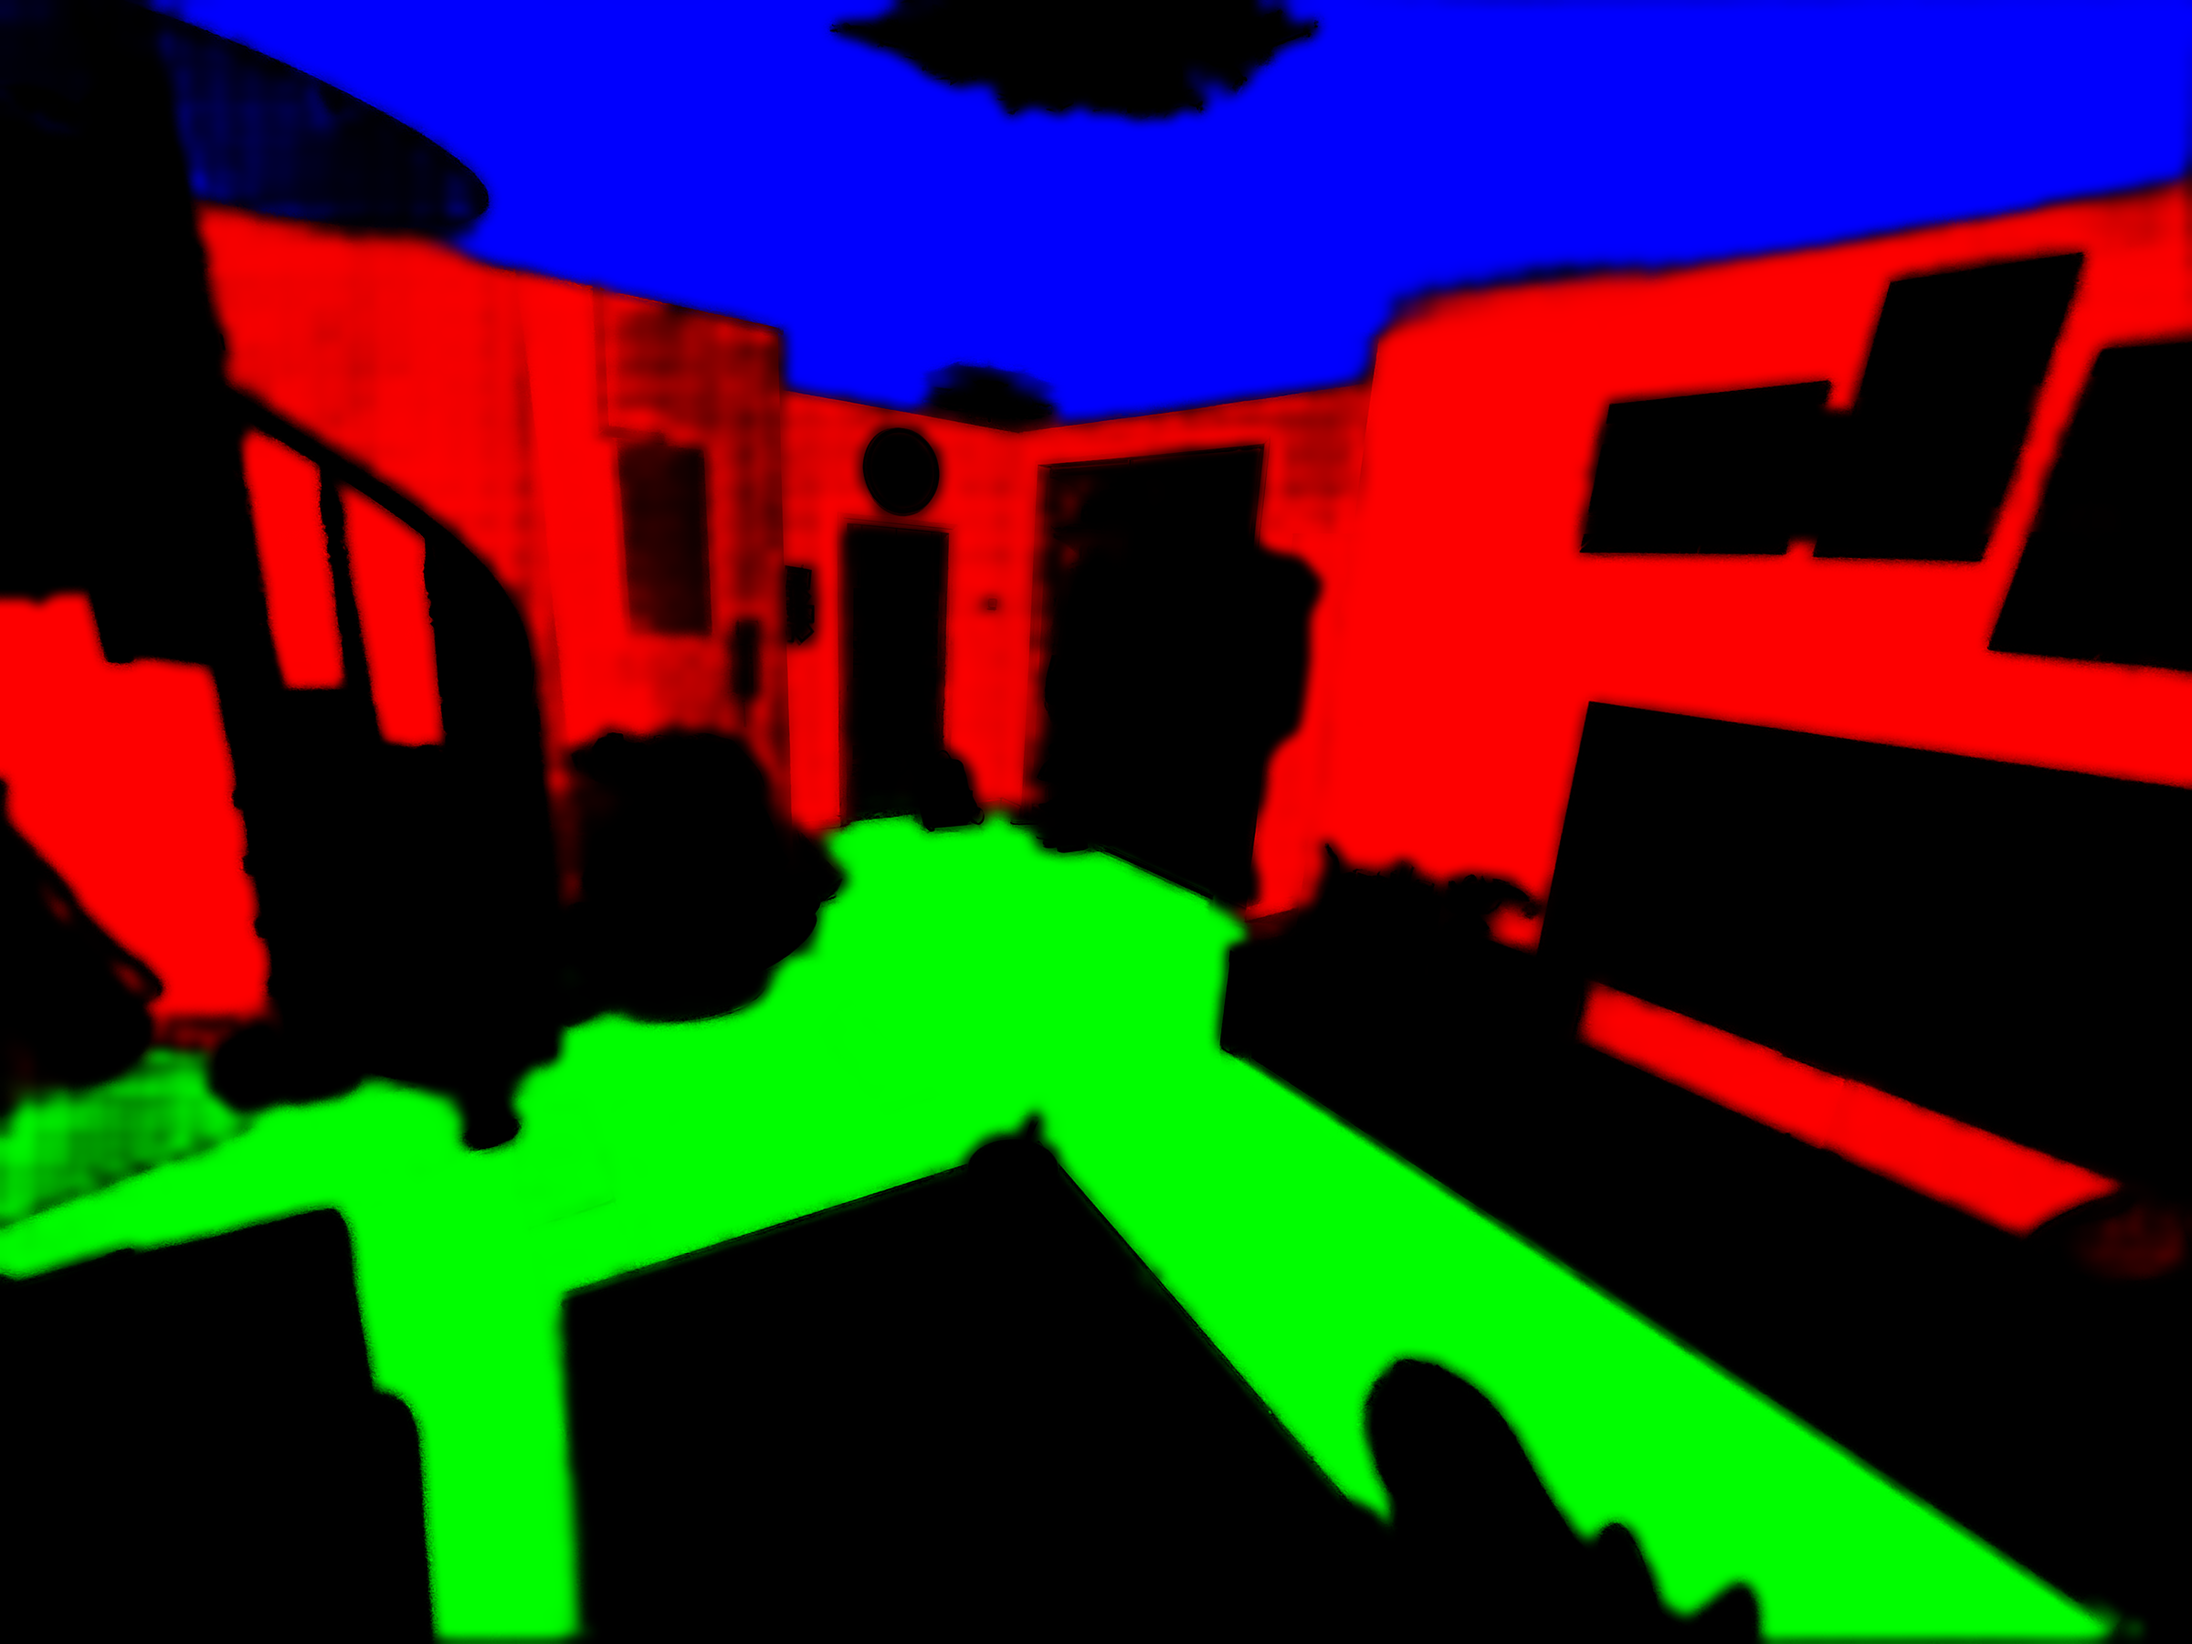
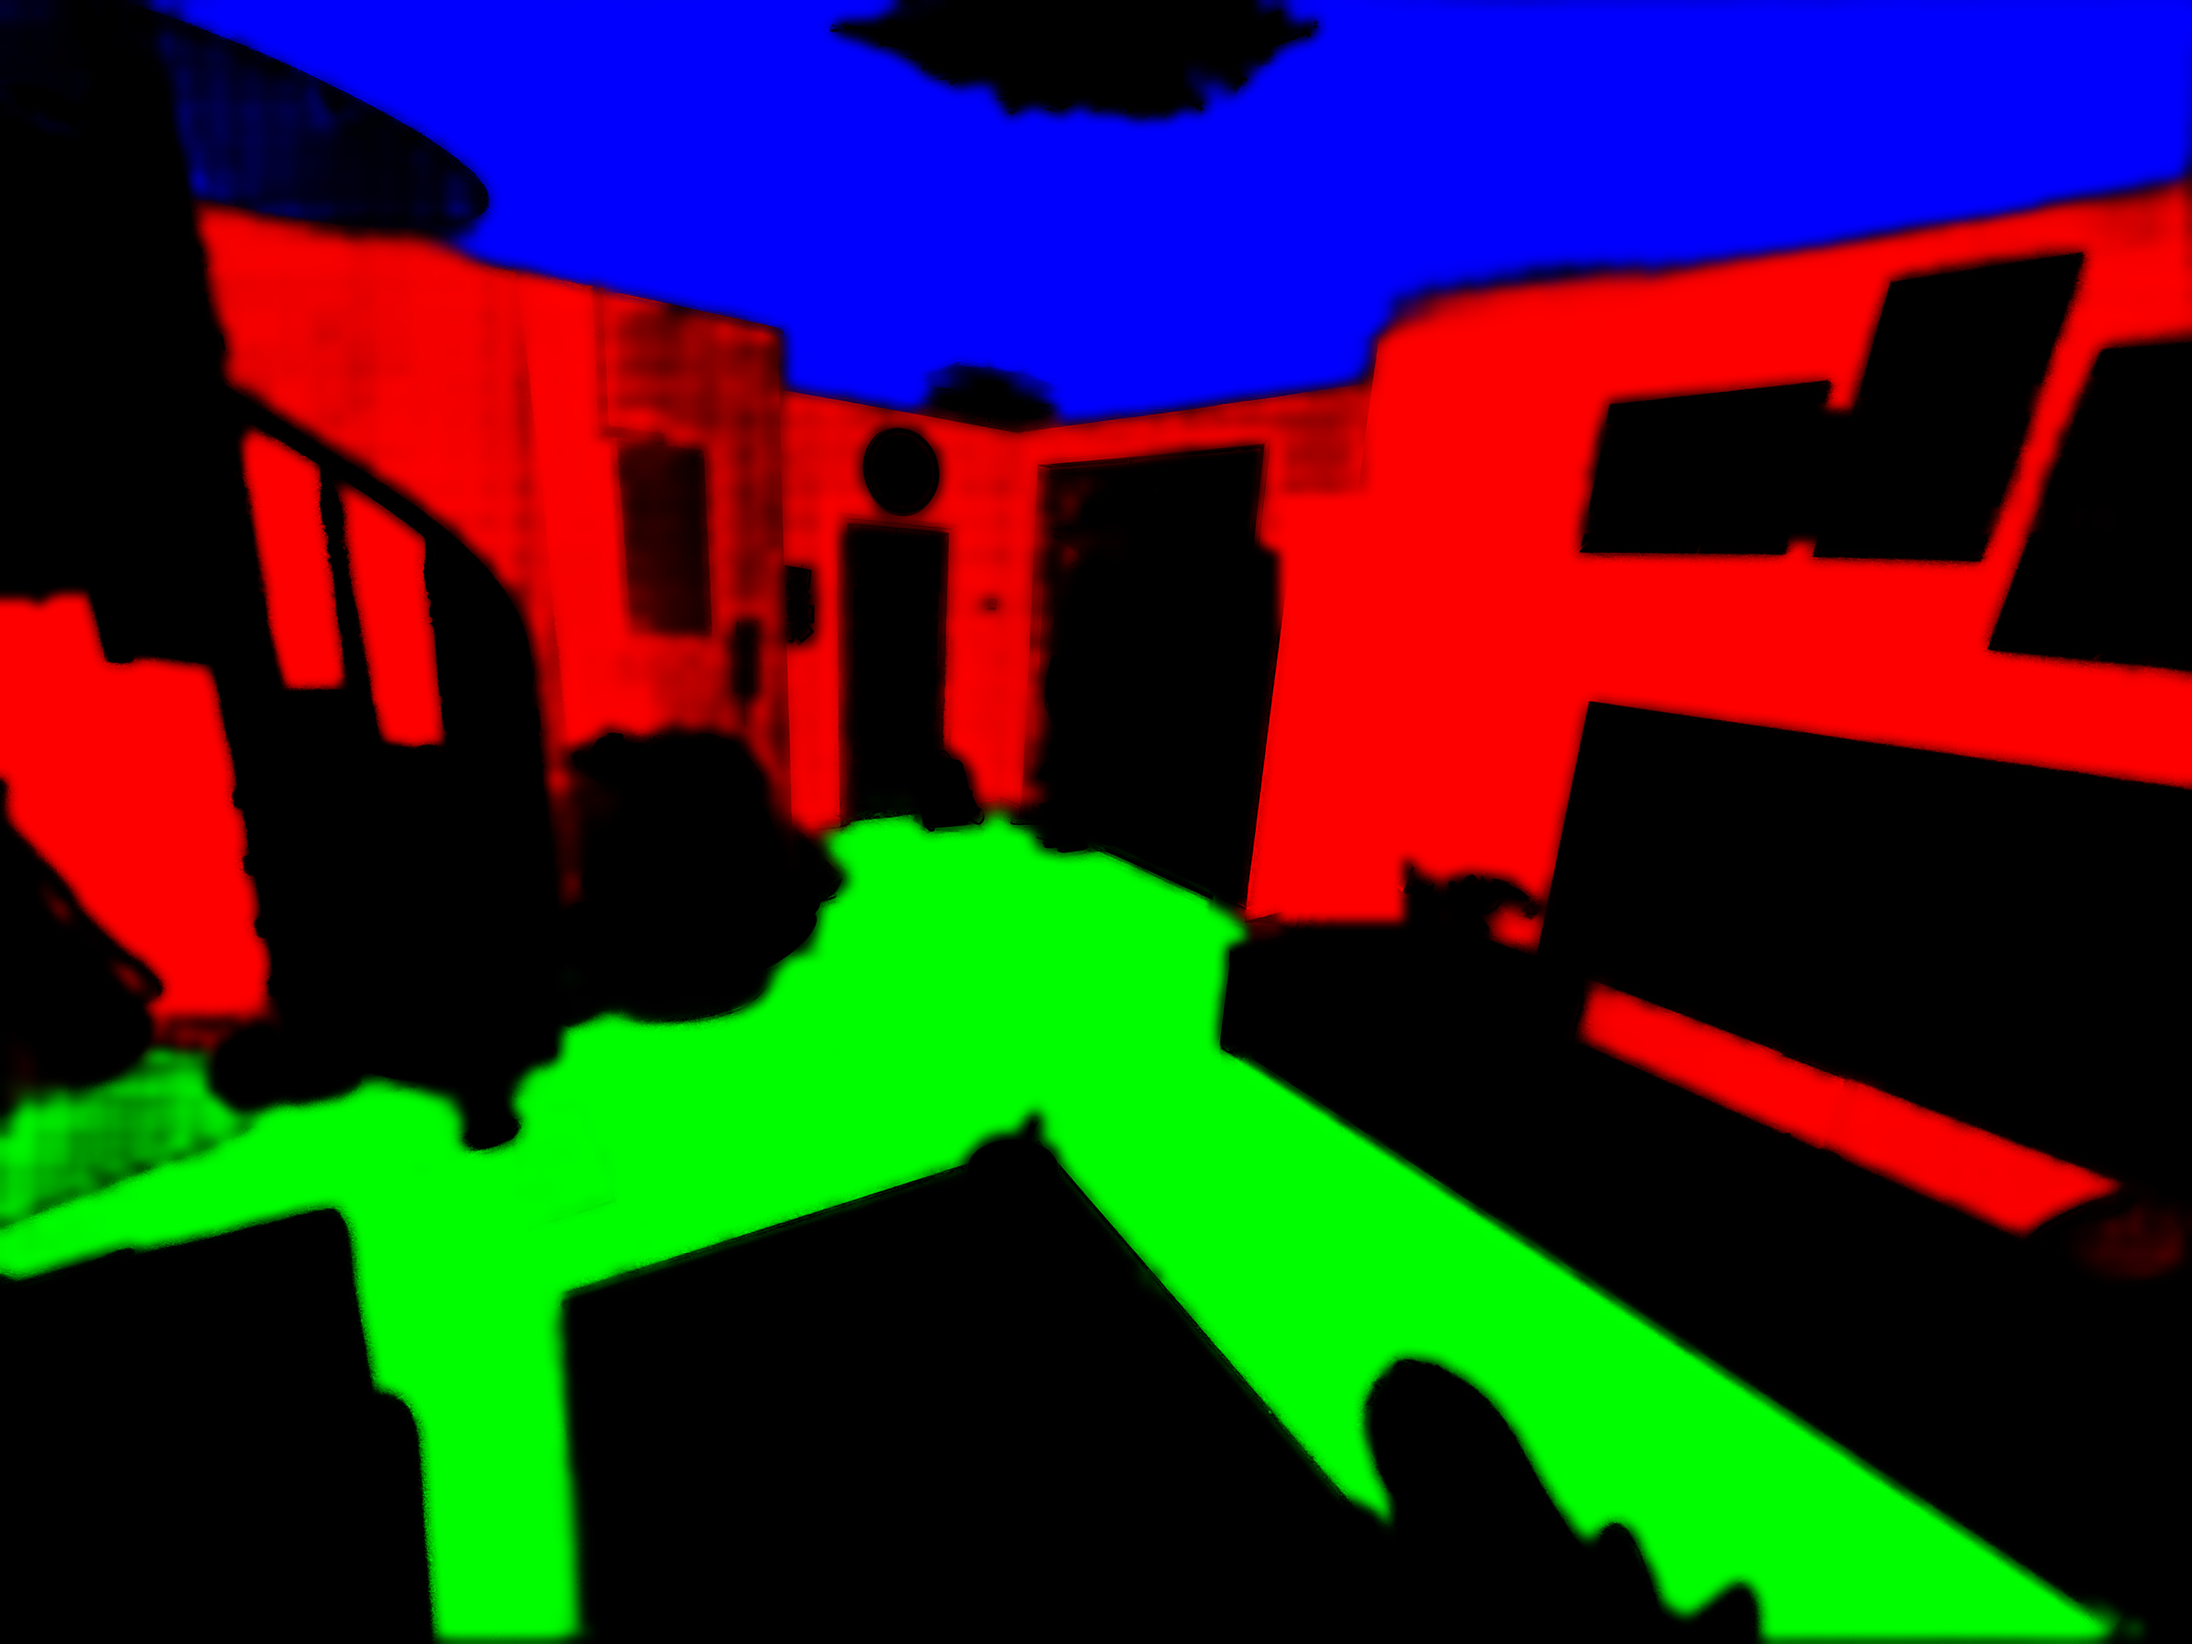
Wall shading preservation, tone shoulder, p87 wall mask fixes

Changed region(s): [[0.5625, 0.28, 0.6562, 0.5911]]

diff --git a/index.html b/index.html
@@ -71,7 +71,7 @@ void main(){vec3 o=lin(texture2D(ph,v).rgb);float L=lum(o);
   } else if(on[i]>.5){vec3 nc=(i==3)?lin(col[i])*pow(min(Ls/mean[i],4.),.8)*pow(det,.55):lin(col[i])*min(L/mean[i],3.);c=mix(c,nc,w[i]);} }
  if(on[7]>.5)c=mix(c,lin(col[7])*min(L/mean[0],3.),wa);
  c*=lt;if(dark>0.){float d=distance(v,vec2(.5,.25));c*=mix(1.,.35+.9*exp(-d*d*6.),dark);}
- gl_FragColor=vec4(srgb(c),1);}`;
+ float lc=lum(c);if(lc>.75){float t=.75+.25*(1.-exp(-(lc-.75)/.25));c*=t/lc;}gl_FragColor=vec4(srgb(c),1);}`;
 function sh(t,s){const o=gl.createShader(t);gl.shaderSource(o,s);gl.compileShader(o);if(!gl.getShaderParameter(o,gl.COMPILE_STATUS))console.error(gl.getShaderInfoLog(o));return o}
 const pr=gl.createProgram();gl.attachShader(pr,sh(gl.VERTEX_SHADER,VS));gl.attachShader(pr,sh(gl.FRAGMENT_SHADER,FS));gl.linkProgram(pr);gl.useProgram(pr);
 gl.bindBuffer(gl.ARRAY_BUFFER,gl.createBuffer());gl.bufferData(gl.ARRAY_BUFFER,new Float32Array([-1,-1,1,-1,-1,1,1,1]),gl.STATIC_DRAW);
